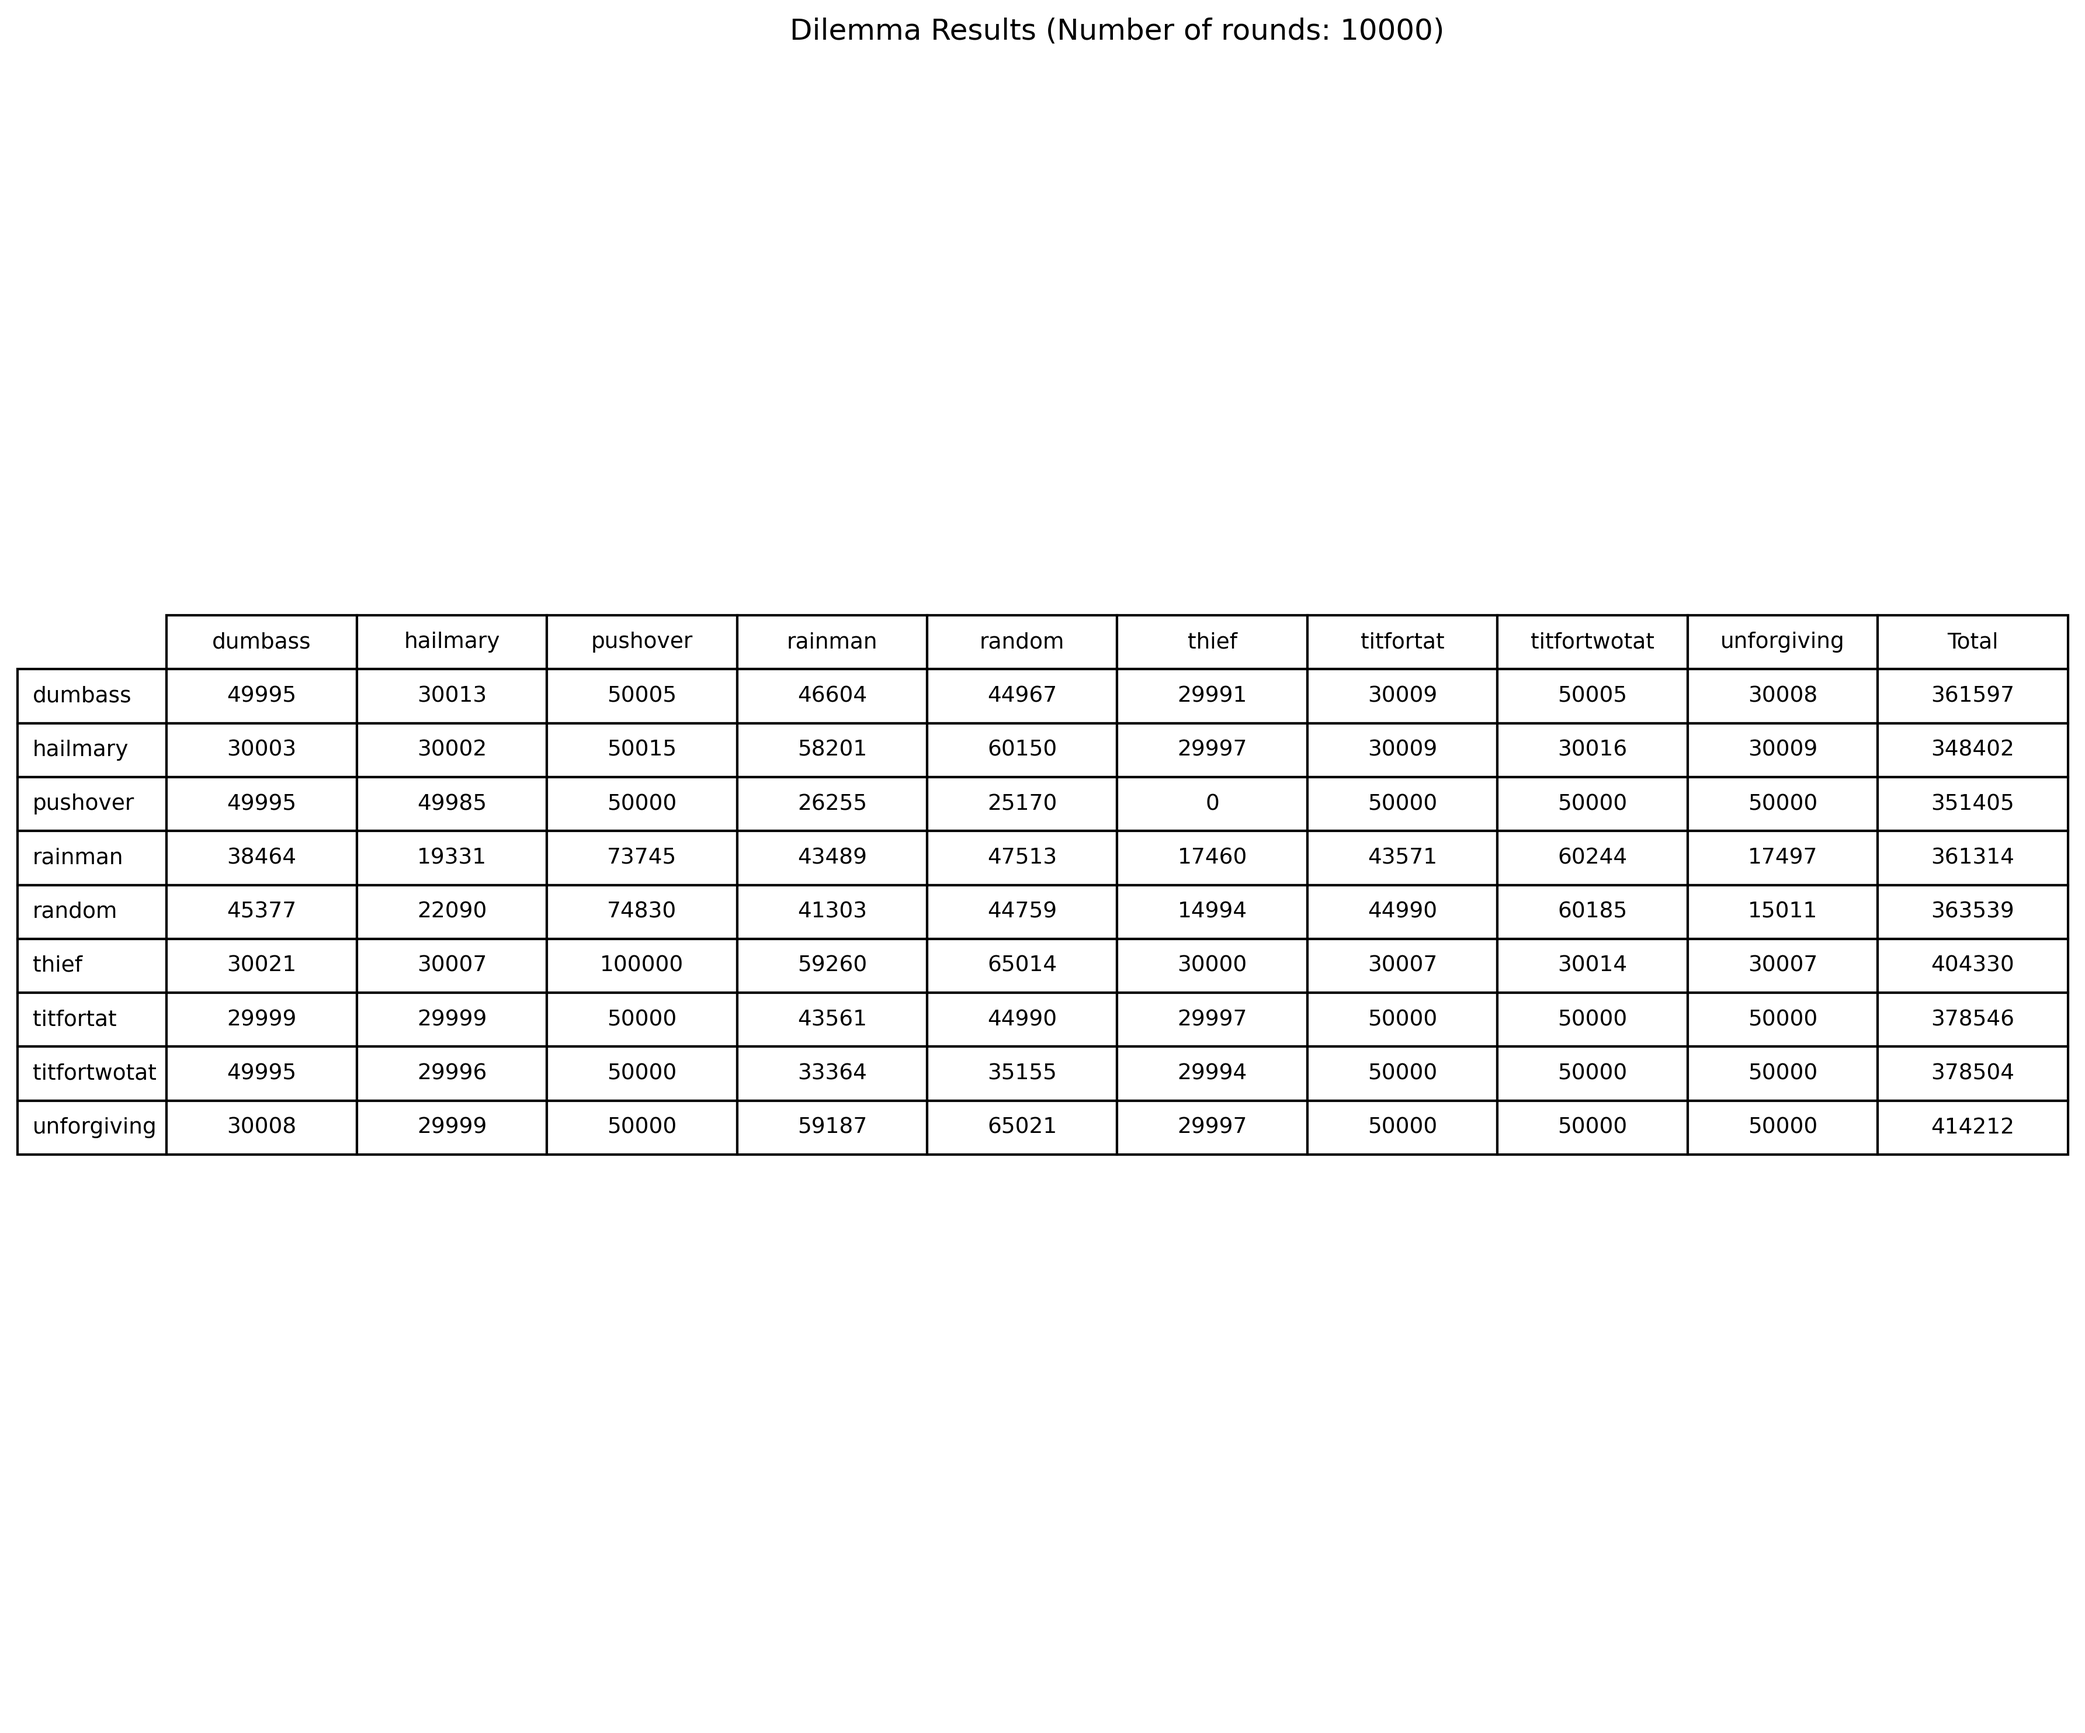
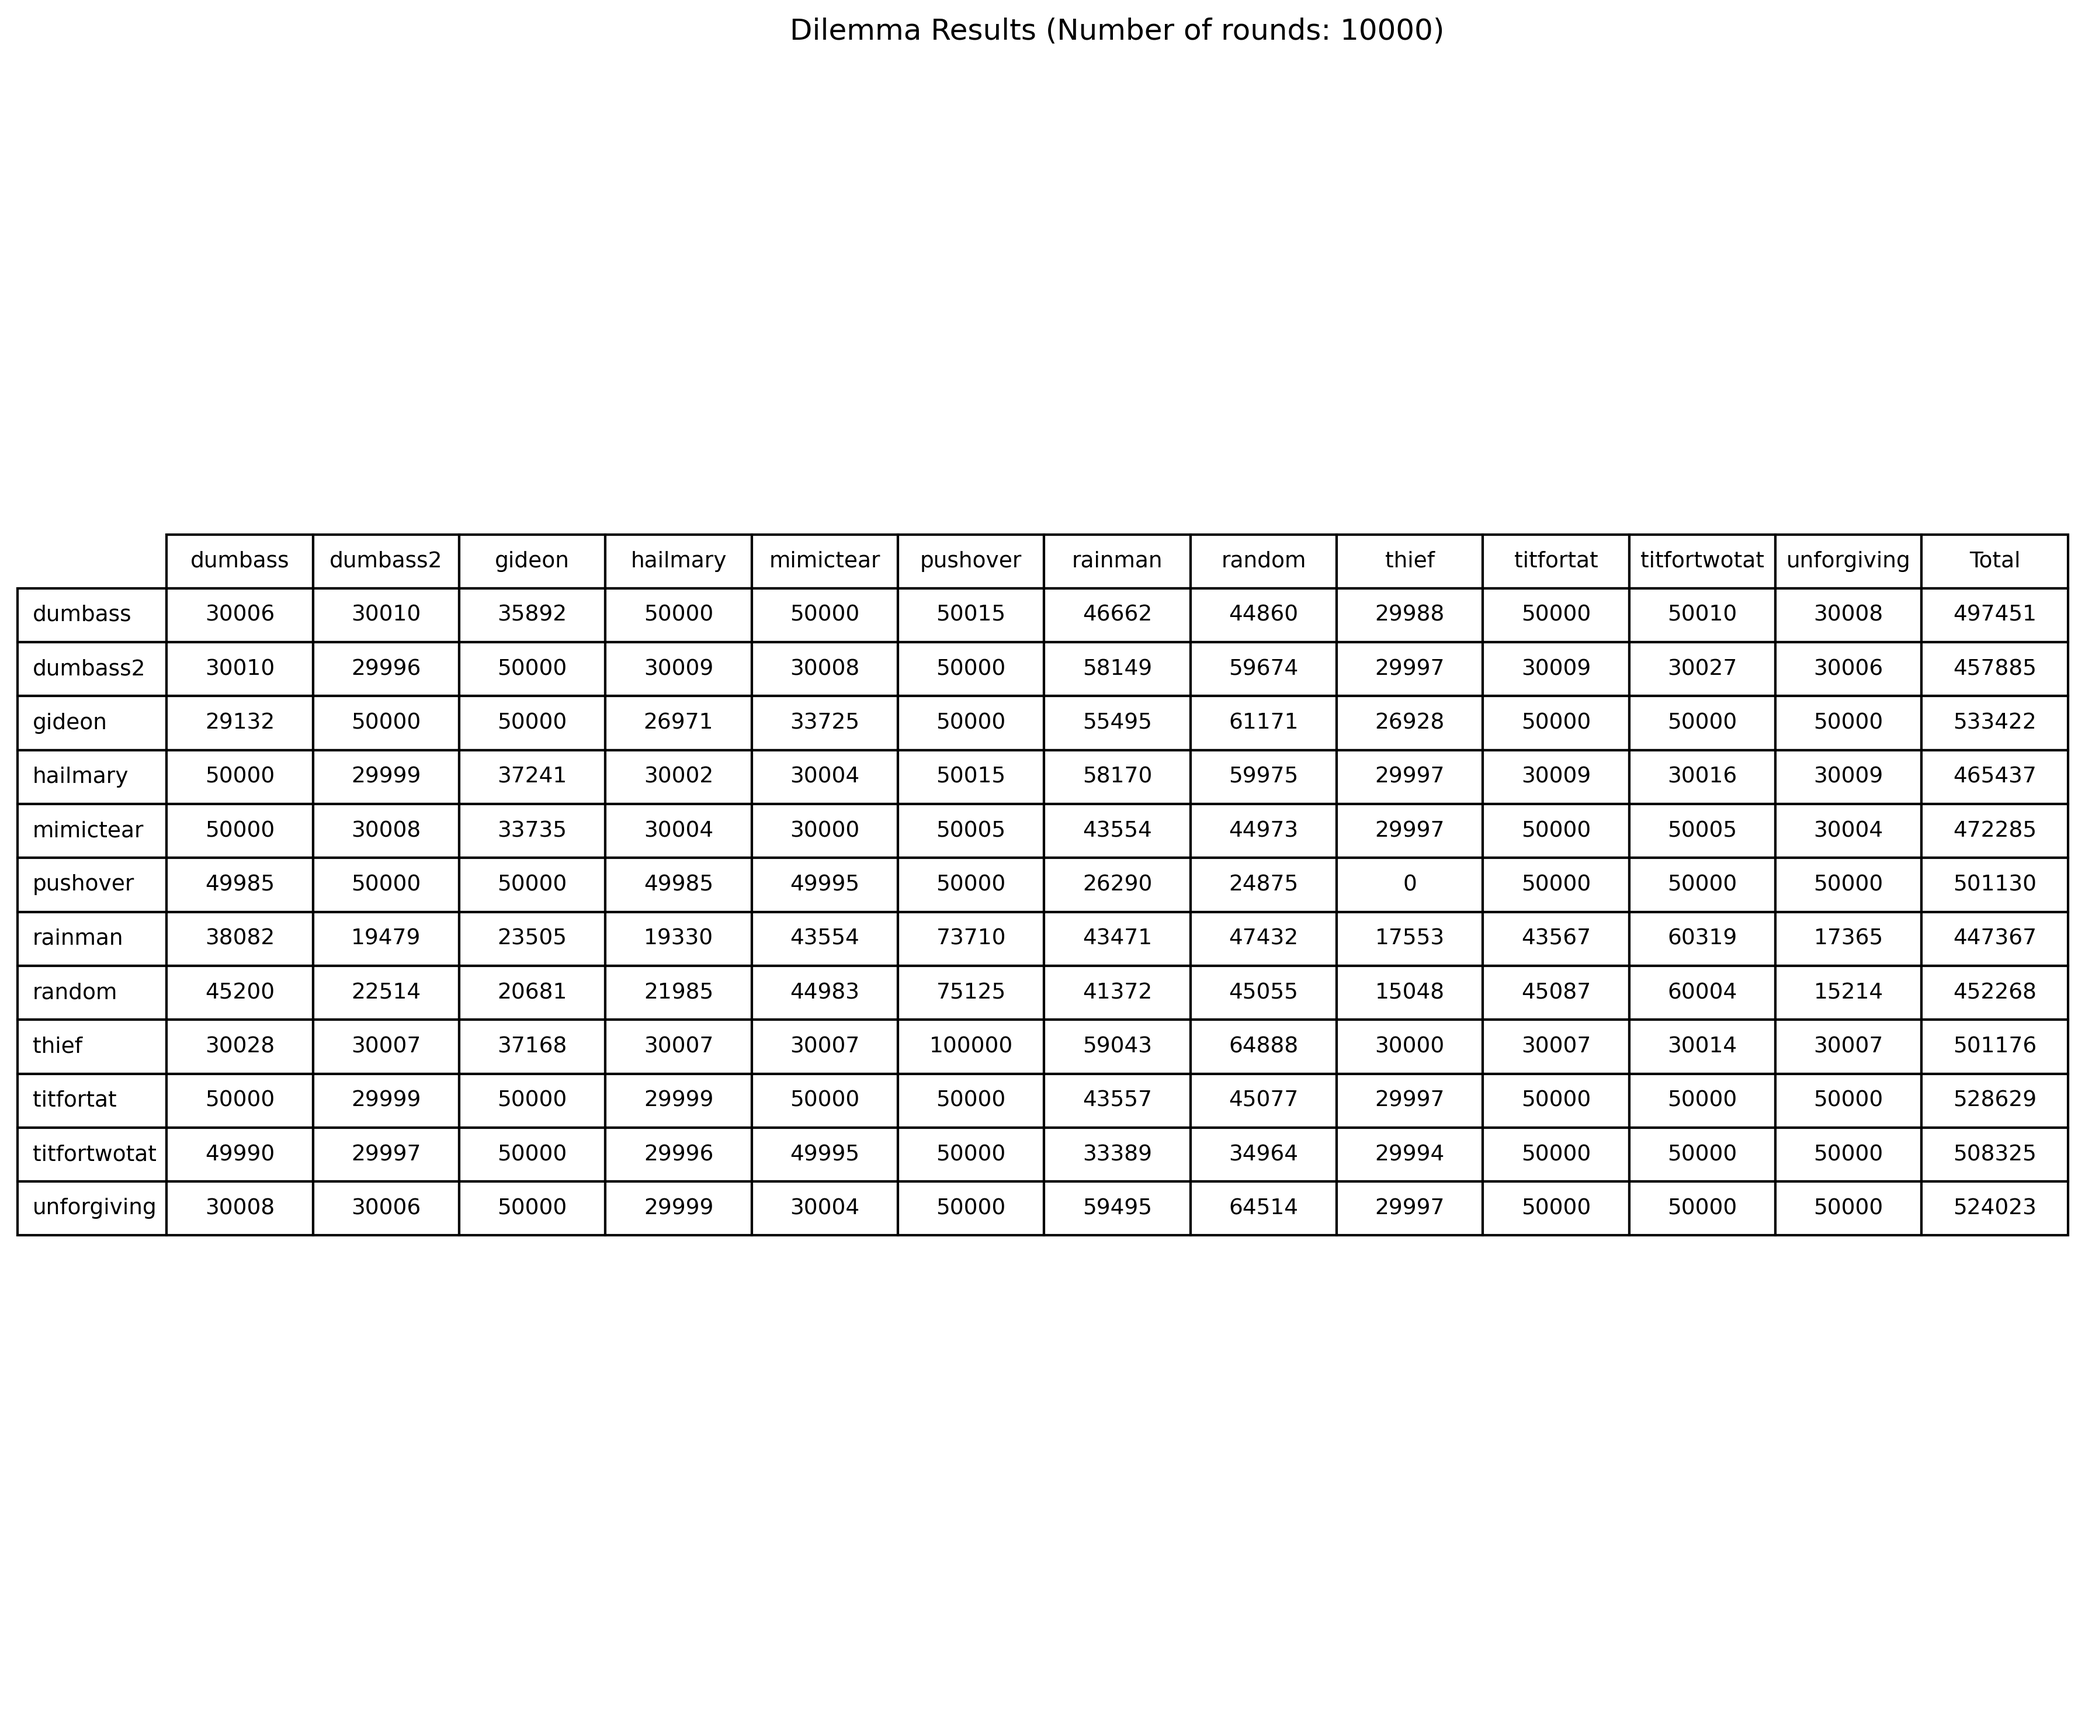
queen marika blesses thee

Changed region(s): [[0.0, 0.3102, 0.9952, 0.7134]]

diff --git a/strategies/gideon.py b/strategies/gideon.py
@@ -1,0 +1,29 @@
+import random
+from utils.types import History, Move
+
+class Strategy:
+    def __init__(self):
+        self.name = "gideon" # SIR GIDEON OFNIR, THE ALL KNOWING
+        self.cooperation_threshold = 0.7
+        self.forgiveness_rate = 0.1
+
+    def begin(self):
+        return Move.SPLIT
+
+    def turn(self, history: History):
+        if not history:
+            return self.begin()
+
+        opponent_moves = [entry.opponent for entry in history]
+        total_moves = len(opponent_moves)
+        opponent_split_ratio = opponent_moves.count(Move.SPLIT) / total_moves
+
+        if opponent_split_ratio >= self.cooperation_threshold:
+            return Move.SPLIT
+        elif opponent_split_ratio < self.cooperation_threshold:
+            if random.random() < self.forgiveness_rate:
+                return Move.SPLIT
+            else:
+                return Move.STEAL
+
+        return Move.SPLIT

diff --git a/strategies/mimictear.py b/strategies/mimictear.py
@@ -1,0 +1,24 @@
+import random
+from utils.types import History, Move
+
+class Strategy:
+    def __init__(self):
+        self.name = "mimictear"
+        self.initial_split_probability = 0.5
+
+    def begin(self):
+        """Initial move with 50% chance to split."""
+        return Move.SPLIT if random.random() < self.initial_split_probability else Move.STEAL
+
+    def turn(self, history: History):
+        """
+        Decide the next move based on the game history, mimicking the opponent's last move.
+        
+        :param history: List of tuples containing (my_move, opponent_move) for each turn
+        :return: Move.SPLIT or Move.STEAL
+        """
+        if not history:
+            return self.begin()
+
+        last_turn = history[-1]
+        return last_turn.opponent

diff --git a/strategies/hailmary.py b/strategies/hailmary.py
@@ -1,7 +1,3 @@
-import math
-import numpy
-import random
-
 from utils.types import History, Move
 
 class Strategy:
